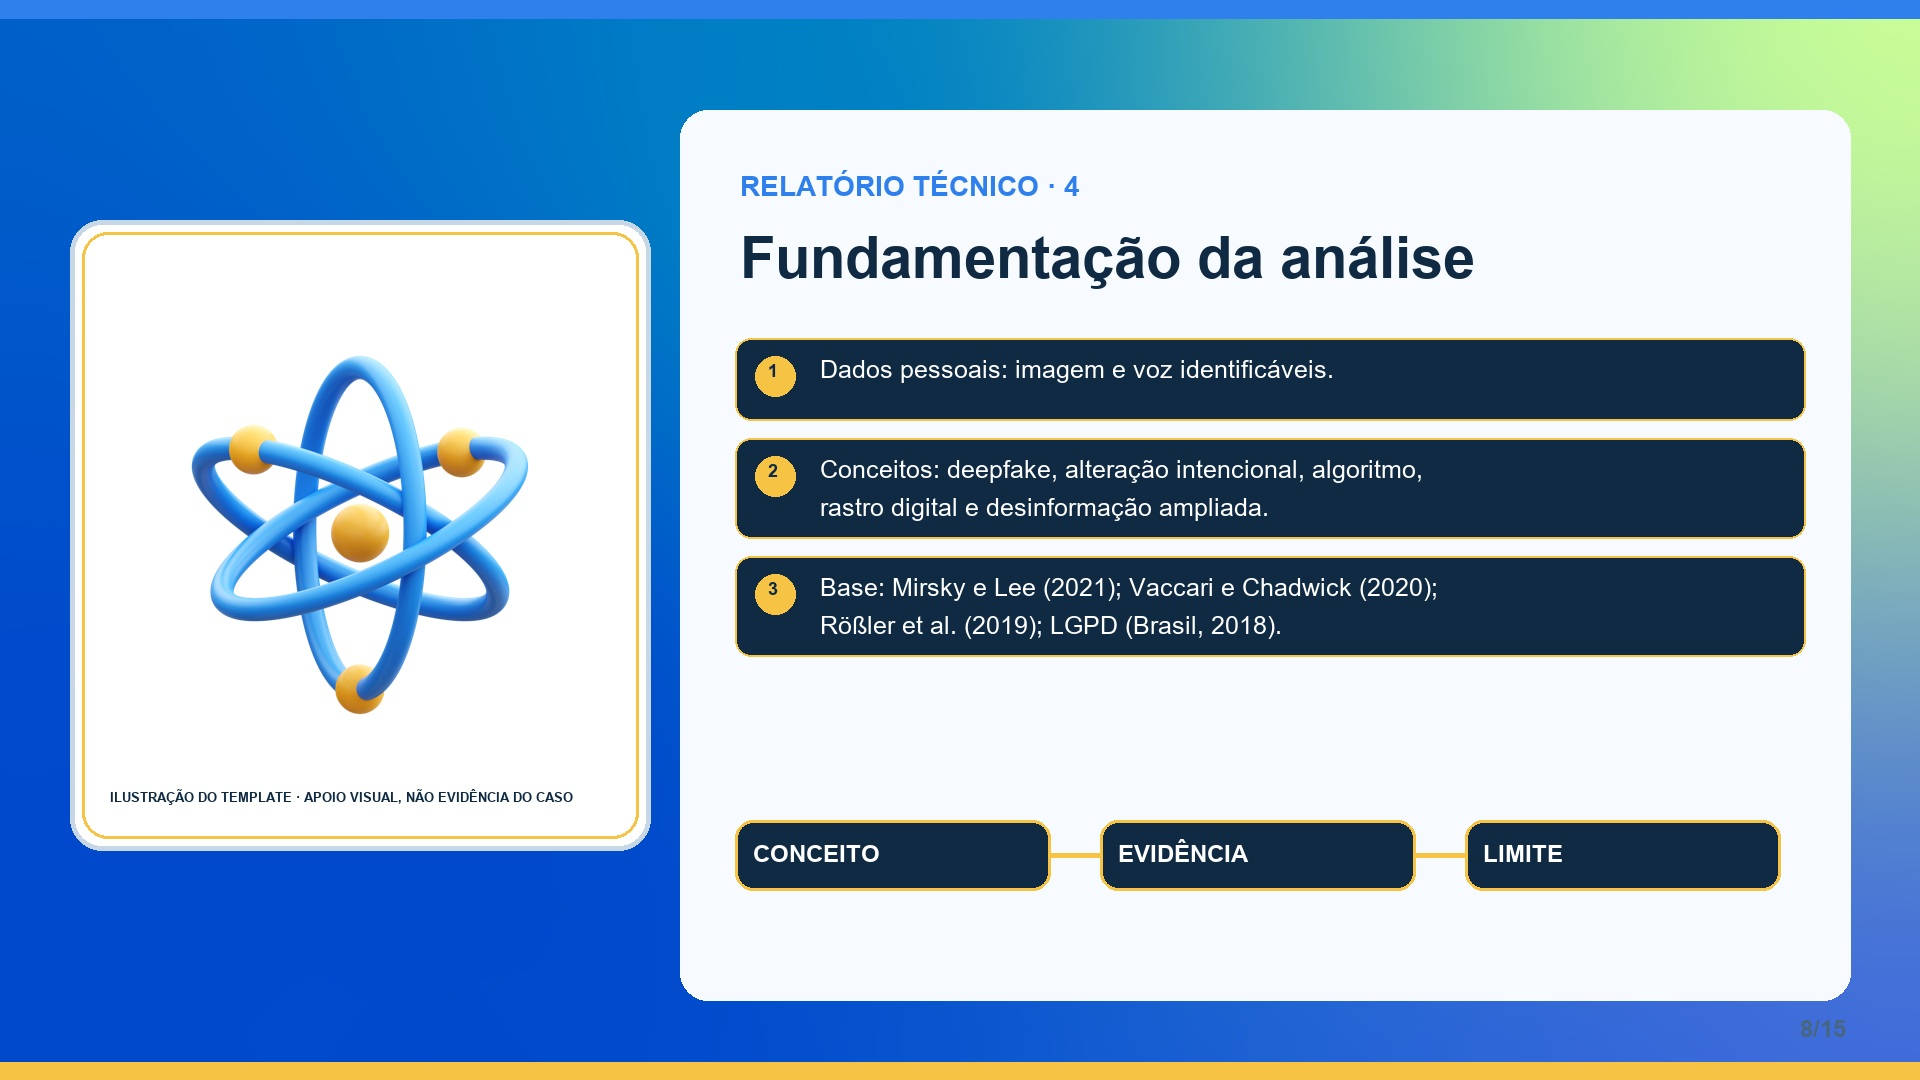
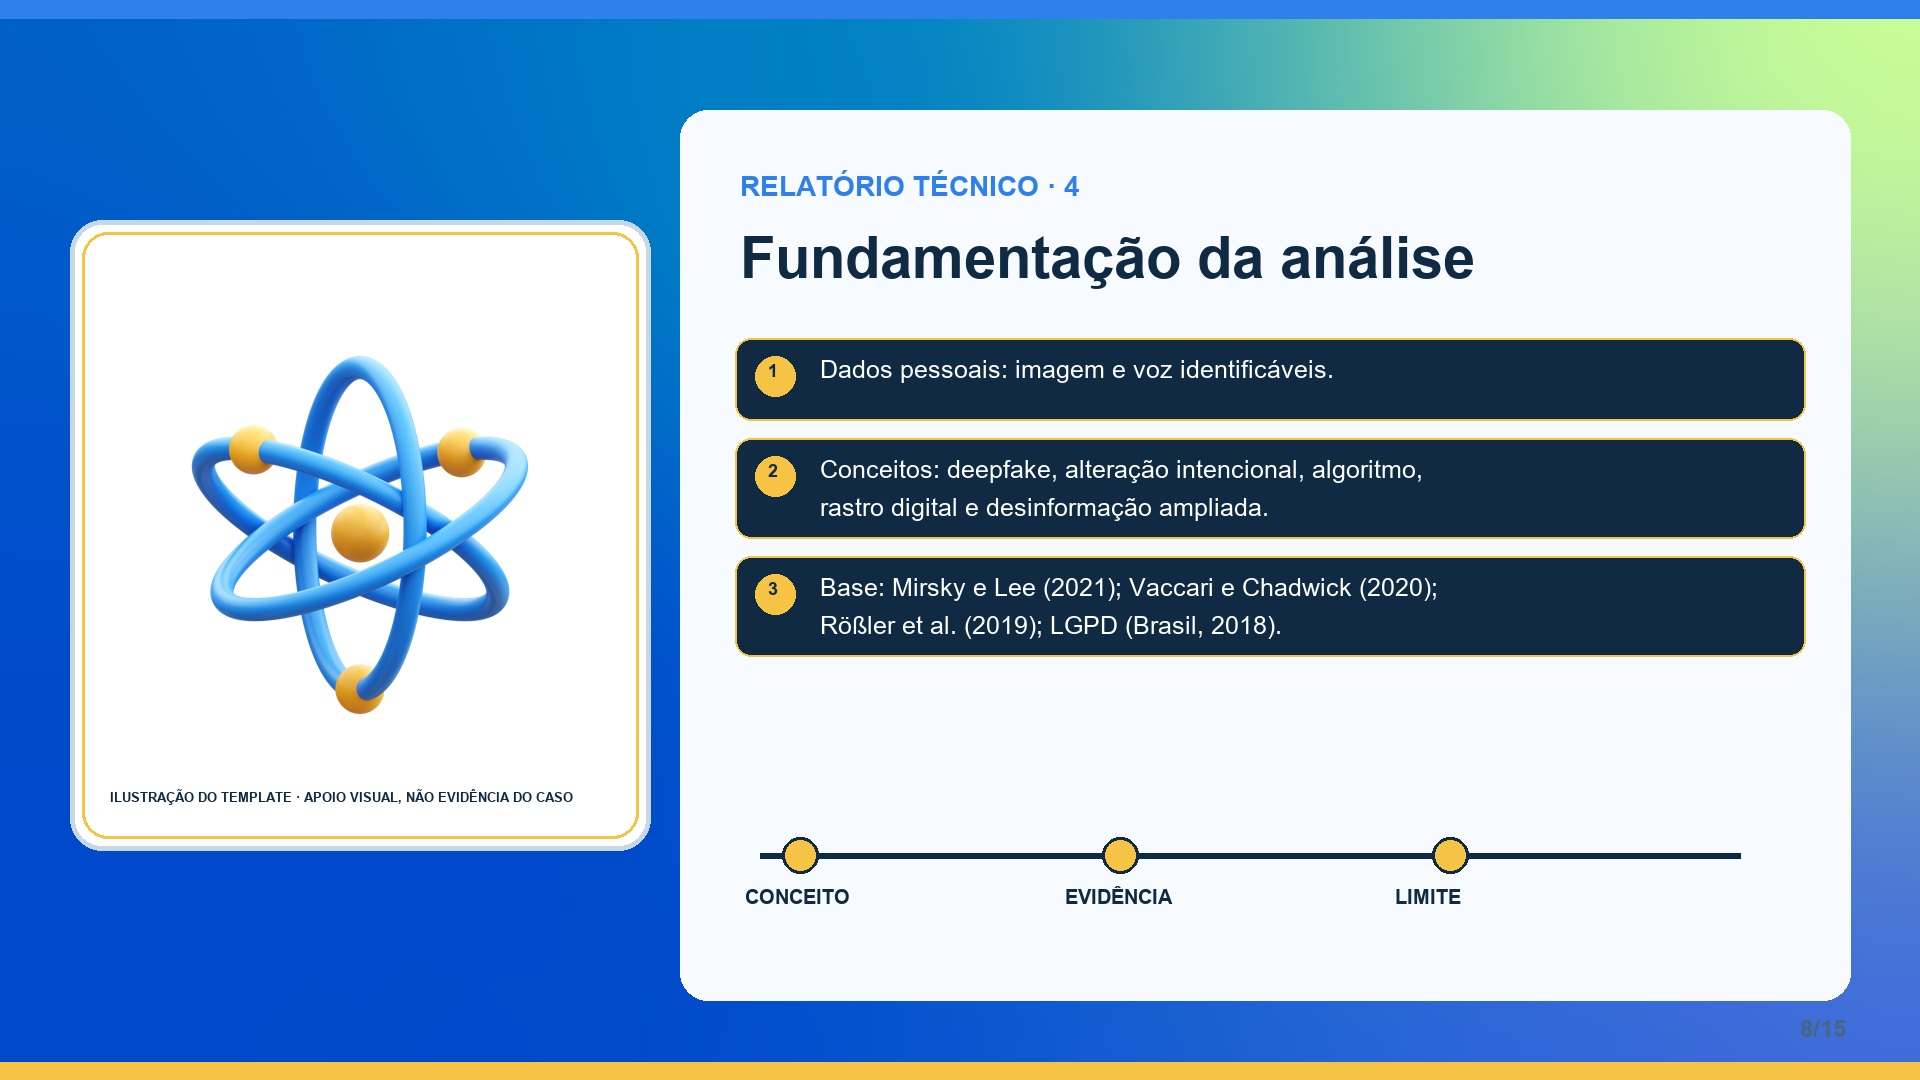
feat: representar roteiro n3 com uml e matrizes

Changed region(s): [[0.375, 0.7333, 0.9375, 0.8556]]

diff --git a/scripts/generate_n3_jpgs.py b/scripts/generate_n3_jpgs.py
@@ -23,9 +23,32 @@ def diagram(d, i):
     # Diagramas autorais: visualizam relações documentadas sem reproduzir mídia jornalística protegida.
     groups={2:['IMAGEM/VOZ','OFERTA','USUÁRIO'],3:['VÍDEO PRÉVIO','VOZ SINTÉTICA','ANÚNCIO'],5:['RELATO','CIRCULAÇÃO','IMPACTO'],6:['IA','IDENTIDADE','INCENTIVO'],7:['CONTEÚDO','CONFIANÇA','DANO'],8:['CONCEITO','EVIDÊNCIA','LIMITE'],9:['PAUSAR','CONFIRMAR','DENUNCIAR']}
     labels=groups.get(i)
+    if i==3:
+        # UML 2.x — diagrama de atividades da cadeia investigada.
+        nodes=[('INÍCIO','material anterior'),('AÇÃO','voz sintética'),('OBJETO','oferta comercial'),('DECISÃO','confirmar fonte')]
+        x=760
+        for n,(kind,label) in enumerate(nodes):
+            y=805+n*43
+            if kind=='DECISÃO': d.polygon([(x,y+18),(x+18,y),(x+36,y+18),(x+18,y+36)],fill=(246,195,68),outline=(16,42,67))
+            else: d.rounded_rectangle((x,y,x+235,y+36),radius=12,fill=(16,42,67),outline=(246,195,68),width=2)
+            d.text((x+48,y+8),label,font=font(18,1),fill=(255,255,255))
+            if n<3:d.line((x+18,y+36,x+18,y+43),fill=(246,195,68),width=3)
+        return
     if i==4:
+        # Tabela de decisão: não transforma indício em prova.
+        d.text((760,800),'MATRIZ DE RECONHECIMENTO',font=font(22,1),fill=(16,42,67))
+        rows=[('Sinal','Interpretação'),('Imagem + voz','confirmar origem'),('Oferta + urgência','não pagar'),('Arquivo ausente','limite da análise')]
+        for r,(a,b) in enumerate(rows):
+            y=830+r*38; fill=(16,42,67) if r else (47,128,237); d.rectangle((760,y,1800,y+34),fill=fill,outline=(246,195,68),width=2); d.text((780,y+7),a,font=font(17,1),fill=(255,255,255)); d.text((1150,y+7),b,font=font(17),fill=(255,255,255))
+        return
+    if i==7:
+        d.text((760,802),'MATRIZ QUALITATIVA DE RISCOS',font=font(21,1),fill=(16,42,67))
+        for x,label in [(760,'INFORMAÇÃO'),(1110,'ECONÔMICO'),(1460,'CONFIANÇA')]:
+            d.rounded_rectangle((x,840,x+290,900),radius=14,fill=(16,42,67),outline=(246,195,68),width=3); d.text((x+18,860),label,font=font(18,1),fill=(255,255,255))
+        return
+    if i==8:
         d.line((760,855,1740,855),fill=(16,42,67),width=6)
-        for x,label in [(800,'ORIGEM'),(1120,'EDIÇÃO'),(1450,'CIRCULAÇÃO'),(1700,'CHECAGEM')]:
+        for x,label in [(800,'CONCEITO'),(1120,'EVIDÊNCIA'),(1450,'LIMITE')]:
             d.ellipse((x-18,837,x+18,873),fill=(246,195,68),outline=(16,42,67),width=3); d.text((x-55,885),label,font=font(20,1),fill=(16,42,67))
         return
     if i==10:

diff --git a/docs/uml-graphs-accessibility.md b/docs/uml-graphs-accessibility.md
@@ -1,0 +1,16 @@
+# UML, gráficos e tabelas — decisão de representação
+
+## Melhorias implementadas
+
+- **Slide 3:** diagrama de atividades UML 2.x para representar a cadeia do artefato investigado. É um modelo analítico, não uma prova de autoria.
+- **Slide 4:** tabela de decisão para separar sinal, interpretação e limite da evidência.
+- **Slide 7:** matriz qualitativa de riscos, sem pontuações inventadas.
+- **Slides 2, 5, 6, 8, 9, 10 e 12:** diagramas de fluxo, causalidade, evidência, resposta, comunicação e impacto.
+
+## Acessibilidade
+
+Cada visual tem rótulo textual no próprio slide, alto contraste azul-marinho/amarelo e leitura da esquerda para a direita ou de cima para baixo. Cores não são o único código: títulos, bordas, posição e palavras explícitas identificam cada etapa. Não há escala numérica sem fonte verificável.
+
+## Prompt revisado
+
+> Analise cada afirmação e escolha a representação mínima que melhor explique sua relação: atividade UML 2.x para sequência, tabela para comparação/decisão, matriz para categorias e gráfico quantitativo somente com dados publicados. Gere a imagem em 1920×1080, preserve a identidade visual azul, use contraste WCAG, rotule fonte e limite da evidência e forneça descrição textual acessível no HTML. Nunca invente números nem trate ilustração como evidência.

diff --git a/README.md b/README.md
@@ -18,6 +18,7 @@ Projeto-exemplo para o Ensino Médio (Nível 3), separado por documentação e c
 - `docs/lgpd-validation-2026-09-17.md` — relatório da revisão técnica do repositório.
 - `docs/ux-ui-assets-plan.md` — prompt revisado, regras UX/UI e matriz de encaixe dos assets.
 - `docs/visual-graphs-plan.md` — prompt e matriz de gráficos/diagramas correlacionados por slide.
+- `docs/uml-graphs-accessibility.md` — escolha de UML, tabelas, matrizes e critérios de acessibilidade.
 
 ## Evidência e limites
 
